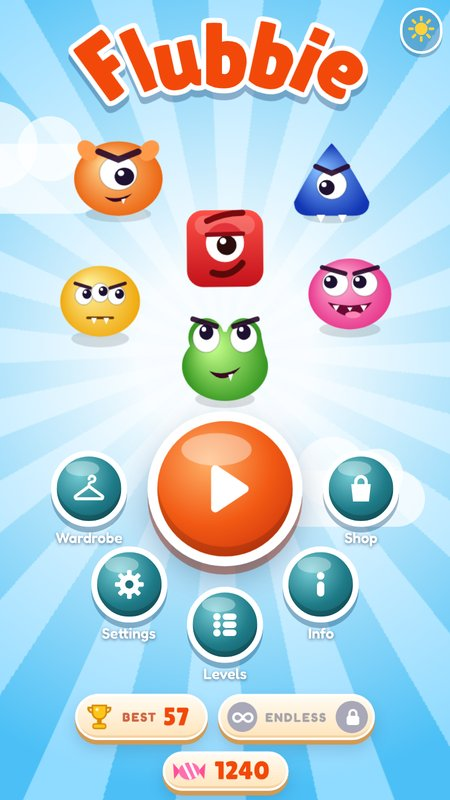
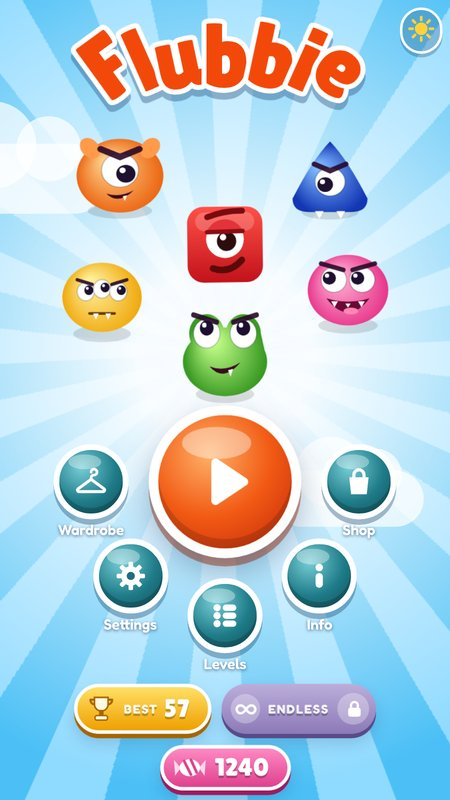
Pastillas del menú de colores: récord dorado, Endless violeta y caramelos rosado con el caramelo blanco

diff --git a/index.html b/index.html
@@ -116,7 +116,14 @@ body[data-ev="christmas"] #evBtn{background:rgba(255,255,255,.18)}
 @keyframes statBreath{0%,22%,100%{scale:1}8%{scale:1.08}15%{scale:.97}}
 .stat.endl{color:#6a3ad0;border:0;cursor:pointer;padding-right:6px;animation:endlGlow 2.4s ease-in-out infinite,statBreath 6s ease-in-out -4s infinite}.stat.endl small{color:#6a3ad0}
 .stat.endl.locked{color:#8a8a9a;animation:statBreath 6s ease-in-out -4s infinite;position:relative}.stat.endl.locked small{color:#8a8a9a}
-.stat.endl.locked .infBadge,.stat.endl.locked .goDot{background:#a8a8b8}
+/* the menu pills are candies of their own colour: gold for the best, purple for endless, pink for candies (as in the game) */
+.stat{border:3px solid #fff;color:#fff;text-shadow:0 2px 0 rgba(0,0,0,.25)}
+.stat small,.stat.endl small,.stat.endl.locked small{color:rgba(255,255,255,.9);opacity:1}
+#menuBest .stat:first-child{background:linear-gradient(#ffe066,#f0a000);box-shadow:0 4px 0 #a86400,0 8px 14px rgba(20,60,110,.2)}
+#menuBest .stat:last-child{background:linear-gradient(#ff8ac4,#e0408e);box-shadow:0 4px 0 #a01a5e,0 8px 14px rgba(20,60,110,.2)}
+#menuBest .stat.endl{background:linear-gradient(#b48aff,#7a3ad0);color:#fff;box-shadow:0 4px 0 #4a1a90,0 8px 14px rgba(20,60,110,.2)}
+#menuBest .stat.endl.locked{background:linear-gradient(#bcaedb,#8c7ab8);box-shadow:0 4px 0 #5a4a88,0 8px 14px rgba(20,60,110,.2)}
+.stat.endl.locked .infBadge,.stat.endl.locked .goDot{background:rgba(255,255,255,.3)}
 .stat.endl.shake{animation:lockShake .4s}
 @keyframes lockShake{20%{transform:translateX(-5px)}40%{transform:translateX(5px)}60%{transform:translateX(-3px)}80%{transform:translateX(3px)}}
 .lockTip{position:absolute;left:50%;bottom:calc(100% + 10px);translate:-50% 0;white-space:nowrap;background:#3d2416;color:#fff;font:600 13px var(--body);
@@ -126,7 +133,7 @@ body[data-ev="christmas"] #evBtn{background:rgba(255,255,255,.18)}
 @keyframes tipShow{0%{opacity:0;transform:translateY(6px)}12%,80%{opacity:1;transform:translateY(0)}100%{opacity:0}}
 .goDot{width:28px;height:28px;border-radius:50%;display:grid;place-items:center;background:linear-gradient(135deg,#7a4ae0,#3a7ae8);margin-left:2px}
 .goDot svg{margin-left:2px}
-@keyframes endlGlow{0%,100%{box-shadow:0 4px 0 rgba(60,30,140,.3),0 8px 18px rgba(20,60,110,.18)}50%{box-shadow:0 4px 0 rgba(60,30,140,.3),0 0 0 5px rgba(122,74,224,.25),0 8px 18px rgba(20,60,110,.18)}}
+@keyframes endlGlow{0%,100%{box-shadow:0 4px 0 #4a1a90,0 8px 18px rgba(20,60,110,.18)}50%{box-shadow:0 4px 0 #4a1a90,0 0 0 5px rgba(122,74,224,.25),0 8px 18px rgba(20,60,110,.18)}}
 .infSvg{width:1.3em;height:.72em;vertical-align:-.08em;overflow:visible;flex:none}
 .infBadge .infSvg{width:19px;height:11px}
 .endlessBtn .inf .infSvg{width:28px;height:16px;vertical-align:0}
@@ -814,8 +821,8 @@ let earned = new Set(), wear = "";
 try{ earned = new Set(JSON.parse(localStorage.getItem("flubble-looks")||"[]")); wear = localStorage.getItem("flubble-wear")||""; }catch(e){}
 function saveLooks(){ try{ localStorage.setItem("flubble-looks", JSON.stringify([...earned])); localStorage.setItem("flubble-wear", wear); }catch(e){} }
 function showMenuInfo(){
-  const trophy = `<svg width="26" height="26" viewBox="0 0 26 26" aria-hidden="true"><path d="M7 3h12v6a6 6 0 0 1-12 0z" fill="#ffc61a" stroke="#d98a00" stroke-width="1.4"/><path d="M7 5H3.5a3.5 3.5 0 0 0 4 4M19 5h3.5a3.5 3.5 0 0 1-4 4" fill="none" stroke="#d98a00" stroke-width="1.8"/><rect x="11" y="14" width="4" height="5" fill="#d98a00"/><rect x="7.5" y="19" width="11" height="4" rx="1.5" fill="#ffc61a" stroke="#d98a00" stroke-width="1.2"/><circle cx="11" cy="6.5" r="1.4" fill="#fff" opacity=".7"/></svg>`;
-  const candy = `<svg width="30" height="22" viewBox="-15 -11 30 22" aria-hidden="true"><path d="M-8 0 L-14 -7 L-13 7Z M8 0 L14 -7 L13 7Z" fill="#ff4f9a"/><ellipse rx="9" ry="7.5" fill="#ff6fb0"/><path d="M-5 -6 L1 6 M1 -7 L6 4" stroke="#fff" stroke-width="2.4" stroke-linecap="round"/></svg>`;
+  const trophy = `<svg width="26" height="26" viewBox="0 0 26 26" aria-hidden="true"><path d="M7 3h12v6a6 6 0 0 1-12 0z" fill="#fff8e0" stroke="#a86400" stroke-width="1.4"/><path d="M7 5H3.5a3.5 3.5 0 0 0 4 4M19 5h3.5a3.5 3.5 0 0 1-4 4" fill="none" stroke="#a86400" stroke-width="1.8"/><rect x="11" y="14" width="4" height="5" fill="#a86400"/><rect x="7.5" y="19" width="11" height="4" rx="1.5" fill="#fff8e0" stroke="#a86400" stroke-width="1.2"/><circle cx="11" cy="6.5" r="1.4" fill="#fff" opacity=".7"/></svg>`;
+  const candy = `<svg width="30" height="22" viewBox="-15 -11 30 22" aria-hidden="true"><path d="M-8 0 L-14 -7 L-13 7Z M8 0 L14 -7 L13 7Z" fill="#ffd6ea"/><ellipse rx="9" ry="7.5" fill="#fff"/><path d="M-5 -6 L1 6 M1 -7 L6 4" stroke="#e0408e" stroke-width="2.4" stroke-linecap="round"/></svg>`;
   // the endless record only shows up once there is one
   const inf = `<span class="infBadge" aria-hidden="true">${INF}</span>`;
   // once unlocked, the endless pill is also the door to that mode: tap it to play
